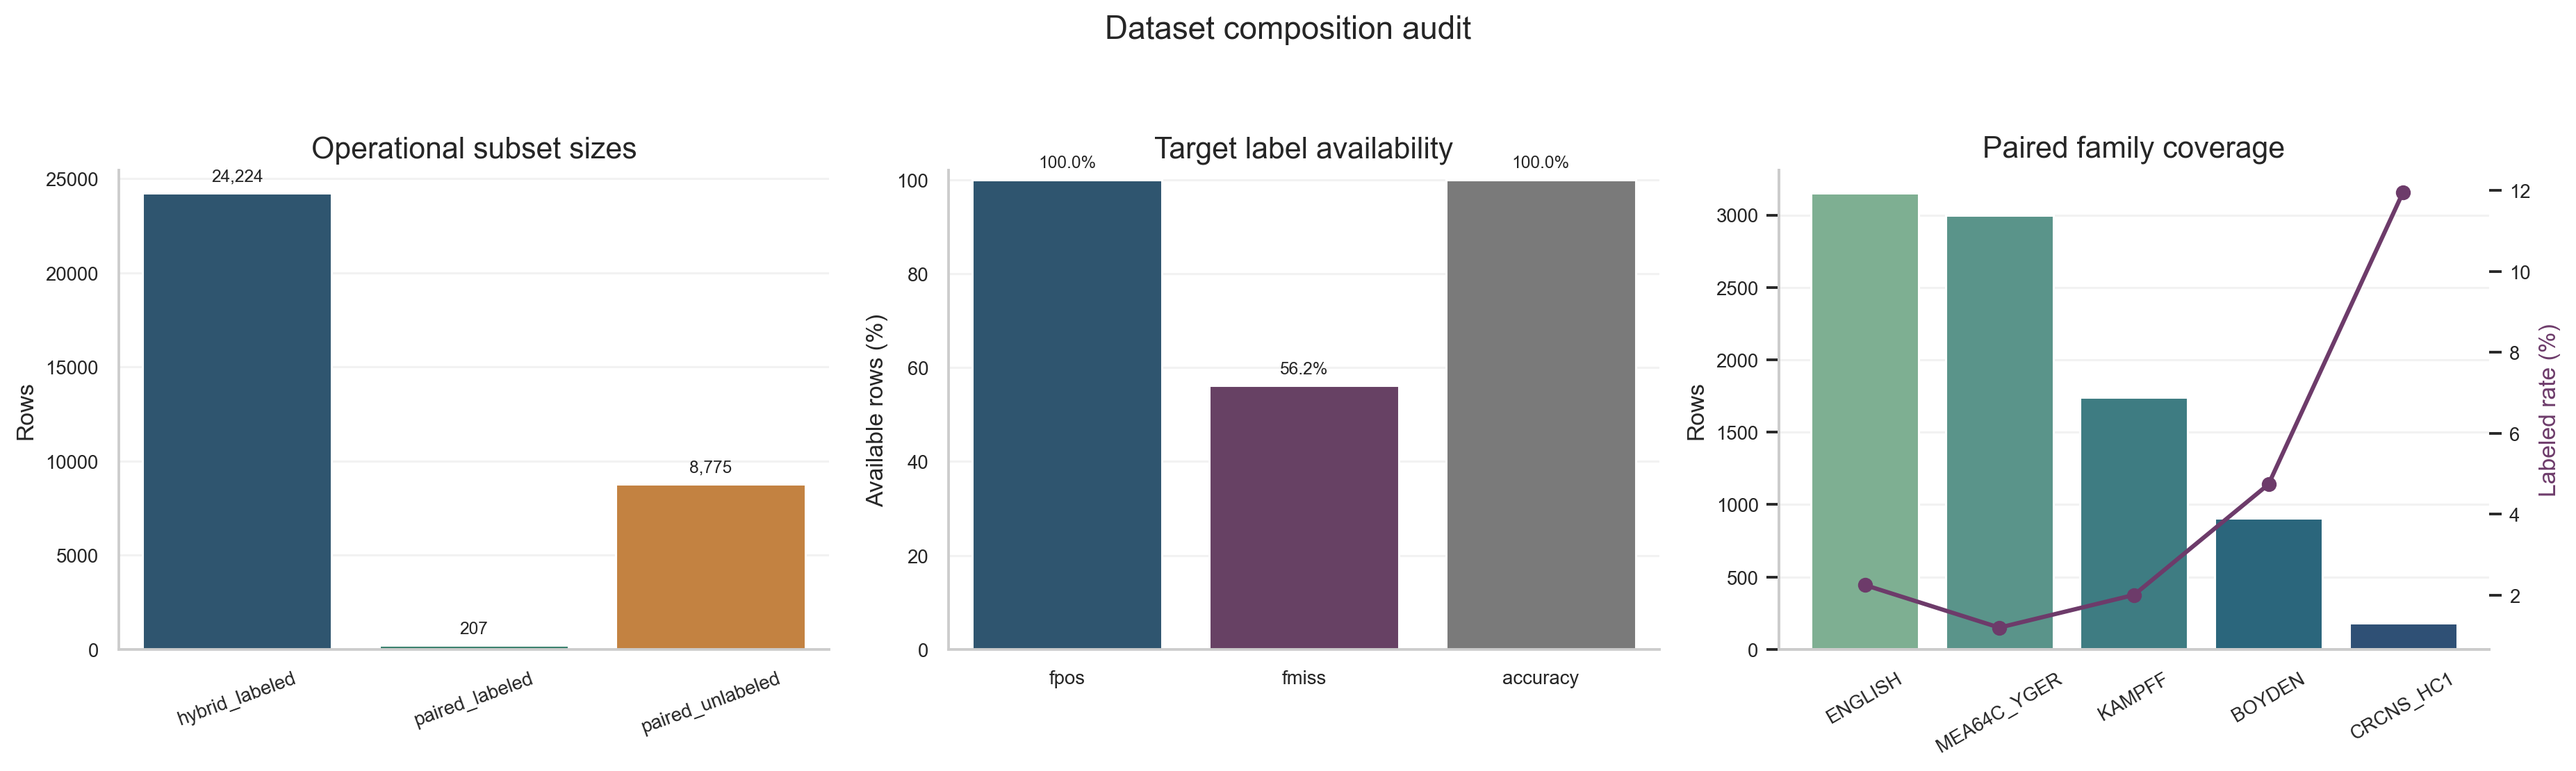
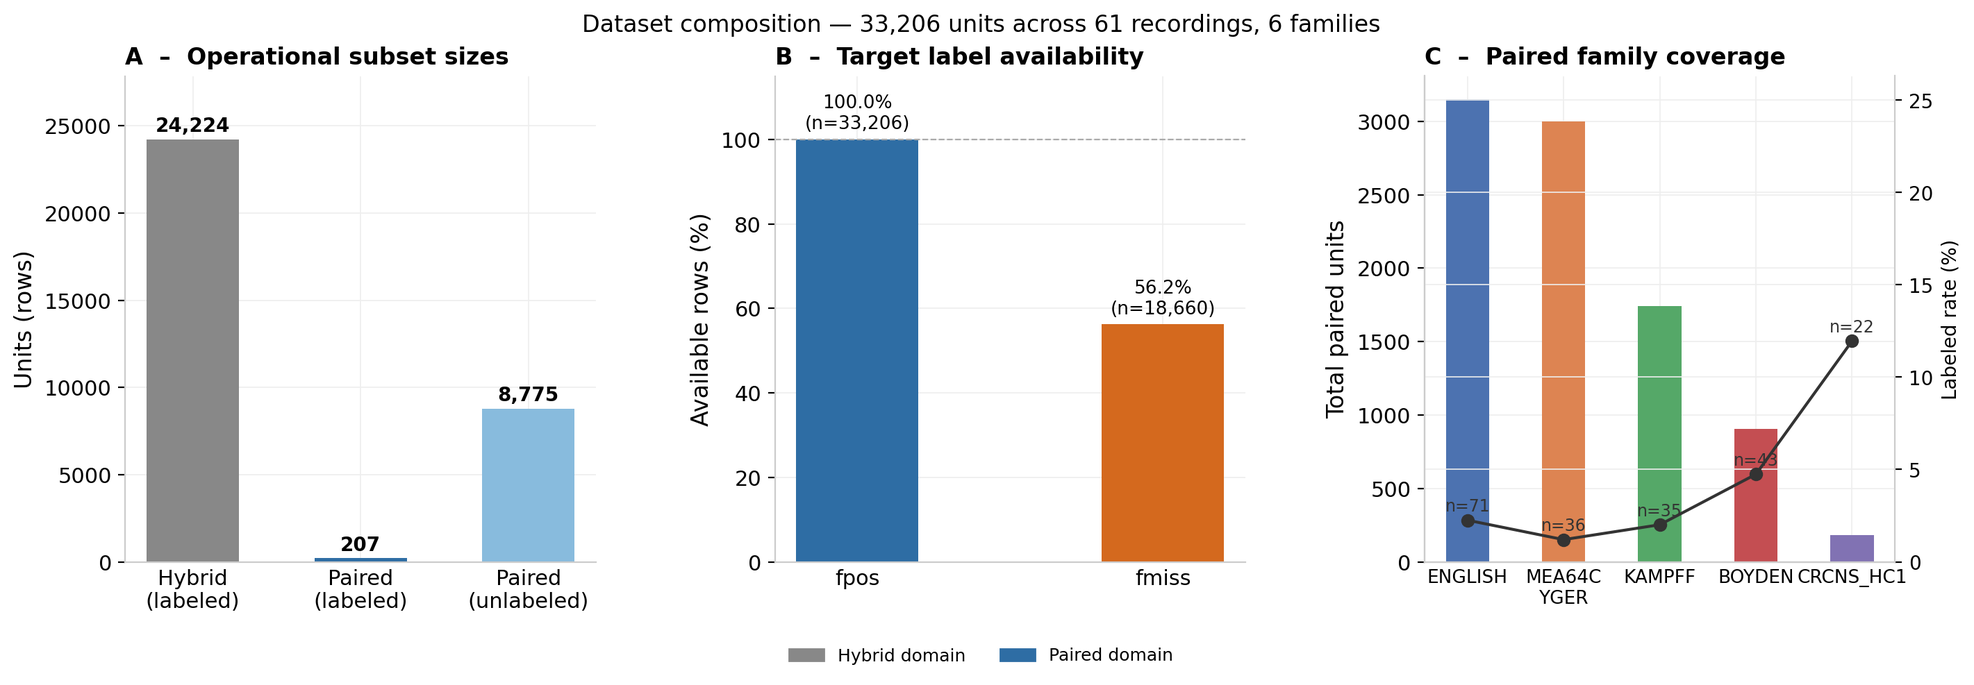
Polish thesis plot typography and annotations

diff --git a/scripts/improve_figures_nb01.py b/scripts/improve_figures_nb01.py
@@ -300,15 +300,16 @@ def fig_dataset_composition() -> None:
     ]
     colors_a = [HYBRID_COLOR, PAIRED_COLOR, "#88BBDD"]
     bars = ax0.bar(labels_a, counts_a, color=colors_a, width=0.55, zorder=2)
-    ax0.set_ylabel("Units (rows)")
-    ax0.set_title("A  –  Operational subset sizes", loc="left", fontsize=11, fontweight="bold")
+    ax0.set_ylabel("Units (rows)", fontsize=12)
+    ax0.set_title("A  –  Operational subset sizes", loc="left", fontsize=12, fontweight="bold")
     ax0.yaxis.grid(True, zorder=0)
     ax0.set_axisbelow(True)
+    ax0.tick_params(axis="y", labelsize=11)
     for bar, n in zip(bars, counts_a):
         ax0.text(bar.get_x() + bar.get_width() / 2, bar.get_height() + 200,
-                 f"{n:,}", ha="center", va="bottom", fontsize=9, fontweight="bold")
+                 f"{n:,}", ha="center", va="bottom", fontsize=10, fontweight="bold")
     ax0.set_ylim(0, max(counts_a) * 1.15)
-    ax0.tick_params(axis="x", length=0)
+    ax0.tick_params(axis="x", length=0, labelsize=11)
 
     # --- Panel B: Target label availability ---
     ax1 = fig.add_subplot(gs[1])
@@ -319,17 +320,18 @@ def fig_dataset_composition() -> None:
     pct     = [v / total * 100 for v in avail]
     bar_colors = [FPOS_COLOR, FMISS_COLOR]
     bars2 = ax1.bar(targets, pct, color=bar_colors, width=0.4, zorder=2)
-    ax1.set_ylabel("Available rows (%)")
+    ax1.set_ylabel("Available rows (%)", fontsize=12)
     ax1.set_ylim(0, 115)
-    ax1.set_title("B  –  Target label availability", loc="left", fontsize=11, fontweight="bold")
+    ax1.set_title("B  –  Target label availability", loc="left", fontsize=12, fontweight="bold")
     ax1.yaxis.grid(True, zorder=0)
     ax1.set_axisbelow(True)
     ax1.axhline(100, color="#aaaaaa", lw=0.8, ls="--")
+    ax1.tick_params(axis="y", labelsize=11)
     for bar, p, n in zip(bars2, pct, avail):
         ax1.text(bar.get_x() + bar.get_width() / 2, p + 1.5,
-                 f"{p:.1f}%\n(n={n:,})", ha="center", va="bottom", fontsize=8.5)
+                 f"{p:.1f}%\n(n={n:,})", ha="center", va="bottom", fontsize=9.5)
     ax1.set_xticks(np.arange(len(targets)))
-    ax1.set_xticklabels(["fpos", "fmiss"], fontsize=10)
+    ax1.set_xticklabels(["fpos", "fmiss"], fontsize=11)
     ax1.tick_params(axis="x", length=0)
 
     # --- Panel C: Paired family coverage ---
@@ -345,27 +347,29 @@ def fig_dataset_composition() -> None:
     w = 0.45
     fcolors = [FAMILY_COLORS.get(f, "#999999") for f in fp.index]
     bars3 = ax2.bar(x, fp["rows"], color=fcolors, width=w, zorder=2, label="Total units")
-    ax2.set_ylabel("Total paired units")
-    ax2.set_title("C  –  Paired family coverage", loc="left", fontsize=11, fontweight="bold")
+    ax2.set_ylabel("Total paired units", fontsize=12)
+    ax2.set_title("C  –  Paired family coverage", loc="left", fontsize=12, fontweight="bold")
     ax2.set_xticks(x)
     ax2.set_xticklabels(
         [f.replace("MEA64C_YGER", "MEA64C\nYGER") for f in fp.index],
-        fontsize=8.5,
+        fontsize=9.5,
     )
     ax2.tick_params(axis="x", length=0)
+    ax2.tick_params(axis="y", labelsize=11)
     ax2.yaxis.grid(True, zorder=0)
     ax2.set_axisbelow(True)
 
     ax2r = ax2.twinx()
     ax2r.plot(x, fp["label_rate"], color="#333333", marker="o", ms=6,
               lw=1.5, zorder=3, label="Labeled rate (%)")
-    ax2r.set_ylabel("Labeled rate (%)", fontsize=9)
+    ax2r.set_ylabel("Labeled rate (%)", fontsize=10)
     ax2r.set_ylim(0, fp["label_rate"].max() * 2.2)
     ax2r.spines["right"].set_visible(True)
     ax2r.spines["right"].set_color("#cccccc")
+    ax2r.tick_params(axis="y", labelsize=10)
     for xi, (rate, labeled) in enumerate(zip(fp["label_rate"], fp["labeled"])):
         ax2r.text(xi, rate + 0.3, f"n={int(labeled)}", ha="center", va="bottom",
-                  fontsize=7.5, color="#333333")
+                  fontsize=8.5, color="#333333")
 
     h1 = mpatches.Patch(color=HYBRID_COLOR, label="Hybrid domain")
     h2 = mpatches.Patch(color=PAIRED_COLOR, label="Paired domain")

diff --git a/scripts/rebuild_story_notebooks.py b/scripts/rebuild_story_notebooks.py
@@ -511,18 +511,19 @@ def notebook_04():
         im = ax.imshow(rank_pivot.to_numpy(dtype=float), cmap="YlGn_r", vmin=1, vmax=max(len(rank_pivot), 1), aspect="auto")
         ax.grid(False)
         ax.set_xticks(range(rank_pivot.shape[1]))
-        ax.set_xticklabels(rank_pivot.columns.astype(str).tolist(), rotation=0)
+        ax.set_xticklabels(rank_pivot.columns.astype(str).tolist(), rotation=0, fontsize=11)
         ax.set_yticks(range(rank_pivot.shape[0]))
-        ax.set_yticklabels(rank_pivot.index.tolist())
-        ax.set_xlabel("Recording-disjoint seed")
-        ax.set_title("Rank by seed across the five main compared `fpos` models\\n(20 recording-disjoint seeds, 42-61; 1 = best `R²`)", pad=10)
+        ax.set_yticklabels(rank_pivot.index.tolist(), fontsize=11)
+        ax.set_xlabel("Recording-disjoint seed", fontsize=12)
+        ax.set_title("Rank by seed across the five main compared `fpos` models\\n(20 recording-disjoint seeds, 42-61; 1 = best `R²`)", pad=10, fontsize=13)
         for row_idx, row_label in enumerate(rank_pivot.index):
             for col_idx, col_label in enumerate(rank_pivot.columns):
                 value = rank_pivot.loc[row_label, col_label]
                 if pd.notna(value):
-                    ax.text(col_idx, row_idx, int(value), ha="center", va="center", fontsize=8)
+                    ax.text(col_idx, row_idx, int(value), ha="center", va="center", fontsize=9)
         cbar = fig.colorbar(im, ax=ax, fraction=0.03, pad=0.02)
-        cbar.set_label("Rank")
+        cbar.set_label("Rank", fontsize=11)
+        cbar.ax.tick_params(labelsize=10)
         fig.tight_layout()
         save_figure(fig, fig_dir, "fpos_seed_rank_heatmap")
         fig
@@ -854,18 +855,19 @@ def notebook_05():
         im = ax.imshow(rank_pivot.to_numpy(dtype=float), cmap="YlGn_r", vmin=1, vmax=max(len(rank_pivot), 1), aspect="auto")
         ax.grid(False)
         ax.set_xticks(range(rank_pivot.shape[1]))
-        ax.set_xticklabels(rank_pivot.columns.astype(str).tolist(), rotation=0)
+        ax.set_xticklabels(rank_pivot.columns.astype(str).tolist(), rotation=0, fontsize=11)
         ax.set_yticks(range(rank_pivot.shape[0]))
-        ax.set_yticklabels(rank_pivot.index.tolist())
-        ax.set_xlabel("Recording-disjoint seed")
-        ax.set_title("Rank by seed across the three main compared `fmiss` models\\n(20 recording-disjoint seeds, 42-61; 1 = best `R²`)", pad=10)
+        ax.set_yticklabels(rank_pivot.index.tolist(), fontsize=11)
+        ax.set_xlabel("Recording-disjoint seed", fontsize=12)
+        ax.set_title("Rank by seed across the three main compared `fmiss` models\\n(20 recording-disjoint seeds, 42-61; 1 = best `R²`)", pad=10, fontsize=13)
         for row_idx, row_label in enumerate(rank_pivot.index):
             for col_idx, col_label in enumerate(rank_pivot.columns):
                 value = rank_pivot.loc[row_label, col_label]
                 if pd.notna(value):
-                    ax.text(col_idx, row_idx, int(value), ha="center", va="center", fontsize=8)
+                    ax.text(col_idx, row_idx, int(value), ha="center", va="center", fontsize=9)
         cbar = fig.colorbar(im, ax=ax, fraction=0.035, pad=0.02)
-        cbar.set_label("Rank")
+        cbar.set_label("Rank", fontsize=11)
+        cbar.ax.tick_params(labelsize=10)
         fig.tight_layout()
         save_figure(fig, fig_dir, "fmiss_seed_rank_heatmap")
         fig

diff --git a/scripts/improve_figures_nb07.py b/scripts/improve_figures_nb07.py
@@ -217,17 +217,6 @@ def plot_label_budget_combined() -> None:
         x_max = float(xs.max()) + 7
         ax.axhline(0, color=C_ZERO, linewidth=1.1, linestyle="--", zorder=1)
         ax.fill_between([x_min, x_max], [0, 0], [-1.2, -1.2], color="#cccccc", alpha=0.25, zorder=0)
-        ax.text(
-            x_min + 2,
-            -0.07,
-            "below chance",
-            fontsize=8,
-            color=C_ZERO,
-            va="top",
-            style="italic",
-            bbox=dict(boxstyle="round,pad=0.18", facecolor="white", edgecolor="none", alpha=0.7),
-        )
-
         final_r2 = float(df.loc[df["budget_rows"] == CURRENT_N, "mean_r2"].iloc[0])
         final_mae = float(df.loc[df["budget_rows"] == CURRENT_N, "mean_mae"].iloc[0])
         ax.axvline(CURRENT_N, color="black", linewidth=1.1, linestyle=":", zorder=3)
@@ -311,16 +300,6 @@ def plot_label_budget_combined() -> None:
         x_max = float(xs.max()) + 7
         ax.axhline(0, color=C_ZERO, linewidth=1.1, linestyle="--", zorder=1)
         ax.fill_between([x_min, x_max], [0, 0], [-1.2, -1.2], color="#cccccc", alpha=0.25, zorder=0)
-        ax.text(
-            x_min + 2,
-            -0.07,
-            "below chance",
-            fontsize=8,
-            color=C_ZERO,
-            va="top",
-            style="italic",
-            bbox=dict(boxstyle="round,pad=0.18", facecolor="white", edgecolor="none", alpha=0.7),
-        )
         final_y = float(ys[-1])
         ax.axvline(CURRENT_N, color="black", linewidth=1.1, linestyle=":", zorder=3)
         ax.text(

diff --git a/src/qc_thesis/plots.py b/src/qc_thesis/plots.py
@@ -563,7 +563,7 @@ def plot_fpos_shap_top(df: pd.DataFrame, top_n: int = 15):
             f"{val:.3f}",
             va="center",
             ha="left",
-            fontsize=8.5,
+            fontsize=9.5,
             color="#333333",
         )
     present_groups = list(dict.fromkeys(plot_df["feature_group"].tolist()))
@@ -574,11 +574,12 @@ def plot_fpos_shap_top(df: pd.DataFrame, top_n: int = 15):
             Patch(facecolor=GROUP_COLORS[group], label=feature_group_display(group))
             for group in present_groups
         ]
-        ax.legend(handles=legend_handles, loc="lower right", fontsize=8)
-    ax.set_xlabel("Mean |SHAP| across LOFO runs")
+        ax.legend(handles=legend_handles, loc="lower right", fontsize=9)
+    ax.tick_params(axis="both", labelsize=11)
+    ax.set_xlabel("Mean |SHAP| across LOFO runs", fontsize=12)
     ax.set_title(
         f"Top SHAP features across LOFO runs\n{WAVEFORM_AUGMENTED_LABEL}",
-        fontsize=13,
+        fontsize=14,
         fontweight="bold",
     )
     ax.set_xlim(right=max_x + (4.5 * label_pad))

diff --git a/scripts/improve_figures_nb06.py b/scripts/improve_figures_nb06.py
@@ -212,13 +212,14 @@ for idx, (bar, val) in enumerate(zip(bars, plot_shap["mean_abs_shap"])):
         val + err + label_pad_top,
         bar.get_y() + bar.get_height() / 2,
         f"{val:.3f}",
-        va="center", ha="left", fontsize=7.5, color="#444444",
+        va="center", ha="left", fontsize=8.5, color="#444444",
     )
 
-ax.set_xlabel("Mean |SHAP| across LOFO runs", fontsize=11)
+ax.tick_params(axis="both", labelsize=10)
+ax.set_xlabel("Mean |SHAP| across LOFO runs", fontsize=12)
 ax.set_title(
     "Top SHAP features across LOFO runs\nWaveform-augmented stack",
-    fontsize=13,
+    fontsize=14,
     fontweight="bold",
     pad=10,
 )
@@ -233,7 +234,7 @@ legend_patches = [
     if g in present_groups
 ]
 ax.legend(handles=legend_patches, loc="lower right", framealpha=0.9,
-          title="Feature group", title_fontsize=8.5)
+          title="Feature group", title_fontsize=9.5, fontsize=9)
 
 fig.tight_layout()
 out = FIG_DIR / "fpos_shap_top.png"

diff --git a/scripts/run_fpos_waveform_label_budget.py b/scripts/run_fpos_waveform_label_budget.py
@@ -300,17 +300,6 @@ def _plot_summary(summary_df: pd.DataFrame) -> None:
     x_max = float(xs.max()) + 7
     ax.axhline(0, color="#888888", linewidth=1.1, linestyle="--", zorder=1)
     ax.fill_between([x_min, x_max], [0, 0], [-1.2, -1.2], color="#cccccc", alpha=0.25, zorder=0)
-    ax.text(
-        x_min + 2,
-        -0.07,
-        "below chance",
-        fontsize=8,
-        color="#888888",
-        va="top",
-        style="italic",
-        bbox=dict(boxstyle="round,pad=0.18", facecolor="white", edgecolor="none", alpha=0.7),
-    )
-
     final_r2 = float(plot_df.loc[plot_df["budget_rows"] == 107, "mean_r2"].iloc[0])
     final_mae = float(plot_df.loc[plot_df["budget_rows"] == 107, "mean_mae"].iloc[0])
     ax.axvline(107, color="black", linewidth=1.1, linestyle=":", zorder=3)
